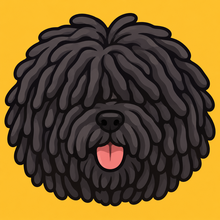
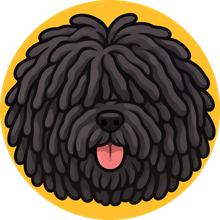
diff gutter line numbers, horizontal scroll, real push counts
- Line-number gutter on every diff row (dim, right-aligned; blank on
  hunk/note rows)
- Long lines fully readable: the diff well scrolls sideways sized to
  the longest line; rows stop truncating at panel width; per-line cap
  raised to 400 chars
- push_request fetches the remote (15 s timeout) before computing
  ahead/behind, so counts reflect reality; offline falls back to local
  refs with a '(stale — offline)' note
- puli.png re-resized (a parallel session had restored the 1254px one)

diff --git a/herdr-app/mods/puli/main.js b/herdr-app/mods/puli/main.js
@@ -163,7 +163,7 @@ function shortId(id) {
 // PATCH_LINE_CAP chars, a file renders at most DIFF_ROW_CAP rows (with
 // a "use puli diff" note), a card lists at most FILE_ROW_CAP file rows.
 
-const PATCH_LINE_CAP = 200; // chars kept per diff line (long lines: keep the tail)
+const PATCH_LINE_CAP = 400; // chars kept per diff line (long lines: keep the tail)
 const DIFF_ROW_CAP = 800;   // rendered rows per expanded file
 const FILE_ROW_CAP = 200;   // file rows per card
 
@@ -865,15 +865,21 @@ export default class Puli extends View {
     let bg = isAdd ? mix(t.done, t.background, 0.16) : null;
     if (selected) bg = mix(t.accent, bg ?? t.background, 0.2);
     const rows = [];
-    // the row itself: [marker hit-area | text]; the marker (Zed-style
-    // gutter chip) sits at the START of the next surviving line. Rows
-    // with a new-side line number are clickable: pick lines to comment on.
+    // the row itself: [line gutter | marker hit-area | text]; the gutter
+    // shows the NEW-side line number (blank on hunk/note/tail rows),
+    // always dim; the marker (Zed-style gutter chip) sits at the START
+    // of the next surviving line. Rows with a new-side line number are
+    // clickable: pick lines to comment on.
     rows.push(
       h_flex().id("dl-" + markId).h(18).flex_none().items_stretch()
         .when(bg !== null, (e) => e.bg(bg))
         .when(row.line !== null, (e) => e.cursor_pointer()
           .on_click((ev, cx) => this.rowClick(item, file, rIdx,
             Boolean(ev && ev.modifiers && ev.modifiers.shift), cx)))
+        .child(
+          div().w(30).flex_none().pr(3).text_right()
+            .font_family(mono()).text_size(10).text_color(t.dim)
+            .child(row.line === null ? "" : String(row.line)))
         .child(
           hasMark
             ? h_flex().id("mk-" + markId).w(9).h(18).flex_none().items_center()
@@ -886,7 +892,7 @@ export default class Puli extends View {
                 .child(div().w(3).h(12).flex_none().rounded(1).bg(t.blocked))
             : div().w(9).h(18).flex_none())
         .child(div().flex_1().min_w(0).pl(3).font_family(mono()).text_size(11)
-          .truncate()
+          .whitespace_nowrap()
           .when(isHunk || isNote, (e) => e.font_semibold())
           .text_color(
             isNote || isHunk ? t.muted :
@@ -899,8 +905,9 @@ export default class Puli extends View {
         const gl = row.removed[g];
         rows.push(
           div().id("gh-" + markId + "-" + g).h(18).flex_none().font_family(mono())
-            .text_size(11).bg(mix(t.blocked, t.background, 0.13))
-            .pl(24).truncate().text_color(t.blocked)
+            .text_size(11).whitespace_nowrap()
+            .bg(mix(t.blocked, t.background, 0.13))
+            .pl(24).text_color(t.blocked)
             .child(gl === "" ? "\u00a0" : gl));
       }
     }
@@ -912,35 +919,55 @@ export default class Puli extends View {
    *  headers as dim separators; removals as red gutter markers with
    *  hover-reveal). Nothing here runs anything — the patch is already
    *  on disk in pending/<id>.json. DIFF_ROW_CAP rows max (then a
-   *  "+N more lines" note). */
+   *  "+N more lines" note). The well scrolls sideways too: the rows
+   *  wrapper is min-width-sized to the longest rendered line (the
+   *  Changes mod's overflow_x pattern), so rows render at full length
+   *  instead of truncating at the panel width. */
   diffWell(t, item, file, idx) {
     const id = item.id + "-" + idx;
     const rows = [];
+    const texts = []; // every rendered line string, for the min width
+    const addText = (s) => texts.push(s);
     if (file.status === "binary") {
+      const s = "binary file — no text diff";
+      addText(s);
       rows.push(div().id("dl-" + id + "-bin").h(18).flex_none().font_family(mono())
-        .text_size(11).text_color(t.muted).child("binary file — no text diff"));
+        .text_size(11).text_color(t.muted).child(s));
     } else if (file.status === "meta") {
+      const s = "no text changes (rename / mode change only)";
+      addText(s);
       rows.push(div().id("dl-" + id + "-meta").h(18).flex_none().font_family(mono())
-        .text_size(11).text_color(t.muted)
-        .child("no text changes (rename / mode change only)"));
+        .text_size(11).text_color(t.muted).child(s));
     } else if (file.rows.length === 0) {
+      const s = "(empty diff)";
+      addText(s);
       rows.push(div().id("dl-" + id + "-empty").h(18).flex_none().font_family(mono())
-        .text_size(11).text_color(t.muted).child("(empty diff)"));
+        .text_size(11).text_color(t.muted).child(s));
     } else {
       const shown = file.rows.slice(0, DIFF_ROW_CAP);
-      shown.forEach((row, i) => rows.push(...this.diffRow(t, item, file, idx, row, i)));
+      shown.forEach((row, i) => {
+        addText(row.s);
+        if (Array.isArray(row.removed)) for (const gl of row.removed) addText(gl);
+        rows.push(...this.diffRow(t, item, file, idx, row, i));
+      });
       if (file.rows.length > DIFF_ROW_CAP) {
+        const s = "+" + (file.rows.length - DIFF_ROW_CAP) + " more lines — use puli diff " + shortId(item.id);
+        addText(s);
         rows.push(div().id("dl-" + id + "-more").h(18).flex_none().font_family(mono())
-          .text_size(11).font_semibold().text_color(t.muted)
-          .child("+" + (file.rows.length - DIFF_ROW_CAP) + " more lines — use puli diff " + shortId(item.id)));
+          .text_size(11).font_semibold().text_color(t.muted).child(s));
       }
     }
     // ghost rows only exist while hovered; size the well from the base rows
     const boxH = Math.min(300, Math.max(14 + 18, rows.length * 18 + 18));
+    // longest line at the mono advance (11px ≈ 6.5px/char, 7 leaves
+    // margin) + gutter + marker + text padding + a little right room
+    let maxChars = 0;
+    for (const s of texts) if (s.length > maxChars) maxChars = s.length;
+    const minW = 30 + 9 + 3 + Math.ceil(maxChars * 7) + 8;
     return v_flex().id("dw-" + id).flex_none().pl(14).pt(1)
-      .child(div().id("dwb-" + id).h(boxH).overflow_y_scrollbar()
+      .child(div().id("dwb-" + id).h(boxH).overflow_scrollbar()
         .py(8).rounded(6).bg(t.background).border_1().border_color(t.border)
-        .children(rows));
+        .child(div().id("dwr-" + id).w_full().min_w(minW).children(rows)));
   }
 
   /** Under a file's well, when that file has picked lines: the selection

diff --git a/src/push.ts b/src/push.ts
@@ -75,10 +75,19 @@ export function pushRequestTool(sessionDir: string): Info {
         (await git(repo, ["symbolic-ref", "--short", "HEAD"])).trim()
 
       // 3. What WOULD be pushed — computed only, nothing is sent.
+      //    A quiet fetch of the remote first refreshes the tracking
+      //    refs so the counts below are the real ones. Offline / bad
+      //    remote → fall back to the local tracking refs (as stale as
+      //    `git status` would report) and say so in the stat.
+      let stale = false
+      try {
+        await git(repo, ["fetch", "--quiet", remote], { timeout: 15_000 })
+      } catch {
+        stale = true
+      }
       //    Compare against the branch's upstream; without one, the
       //    remote-tracking ref; without that, it's a new remote branch
-      //    (everything on the branch goes). Tracking refs are local
-      //    (no fetch): as stale as `git status` would report.
+      //    (everything on the branch goes).
       let base: string | null = null
       try {
         base = (await git(repo, [
@@ -121,7 +130,8 @@ export function pushRequestTool(sessionDir: string): Info {
       }
       const message = `push ${branch} → ${remote} (${ahead} commit${ahead === 1 ? "" : "s"})`
       const stat =
-        `ahead ${ahead}` + (behind > 0 ? `, behind ${behind}` : "") + (note !== "" ? ` (${note})` : "")
+        `ahead ${ahead}` + (behind > 0 ? `, behind ${behind}` : "") + (note !== "" ? ` (${note})` : "") +
+        (stale ? " (stale — offline)" : "")
 
       // 4. Park the proposal in the same queue (same contract as a
       //    commit proposal; empty files/patch — the panel shows the

diff --git a/src/git.ts b/src/git.ts
@@ -6,19 +6,24 @@ import { shortId } from "./state.ts"
 const exec = promisify(execFile)
 
 /** Run git in `cwd`, args as an array; throws with git's stderr in the message. */
-export async function git(cwd: string, args: string[]): Promise<string> {
-  return gitRun(cwd, args).then((r) => r.stdout)
+export async function git(cwd: string, args: string[], opts?: { timeout?: number }): Promise<string> {
+  return gitRun(cwd, args, opts).then((r) => r.stdout)
 }
 
 /** Like git(), but stdout+stderr combined — push writes its ref summary to stderr. */
-export async function gitAll(cwd: string, args: string[]): Promise<string> {
-  return gitRun(cwd, args).then((r) => (r.stdout + r.stderr).trim())
+export async function gitAll(cwd: string, args: string[], opts?: { timeout?: number }): Promise<string> {
+  return gitRun(cwd, args, opts).then((r) => (r.stdout + r.stderr).trim())
 }
 
-export async function gitRun(cwd: string, args: string[]): Promise<{ stdout: string; stderr: string }> {
+export async function gitRun(
+  cwd: string,
+  args: string[],
+  opts?: { timeout?: number },
+): Promise<{ stdout: string; stderr: string }> {
   try {
     return await exec("git", ["-C", cwd, ...args], {
       maxBuffer: 16 * 1024 * 1024,
+      ...(opts?.timeout !== undefined ? { timeout: opts.timeout } : {}),
     })
   } catch (err) {
     const e = err as { stderr?: string; message?: string }
